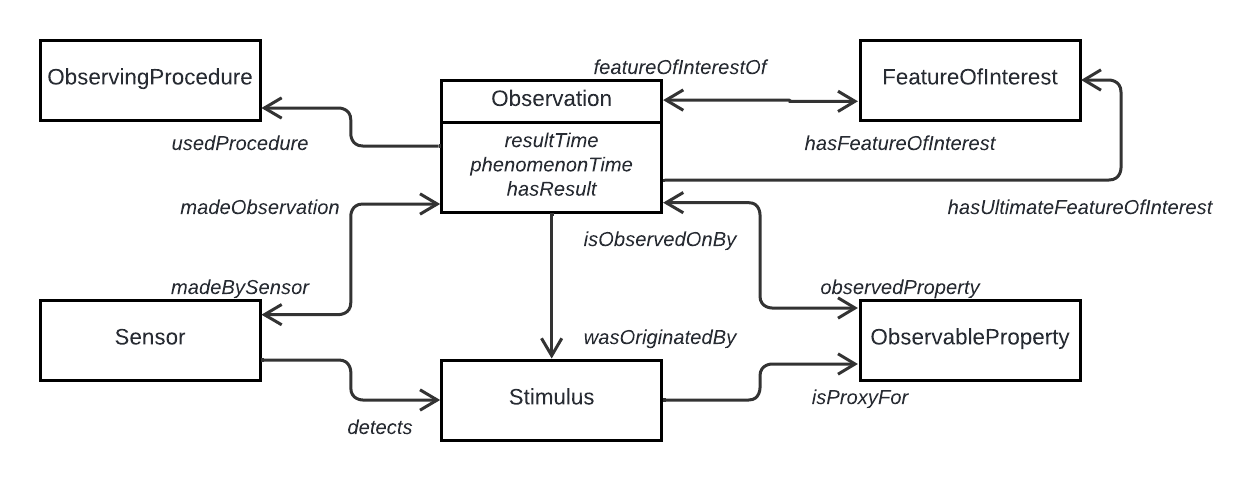
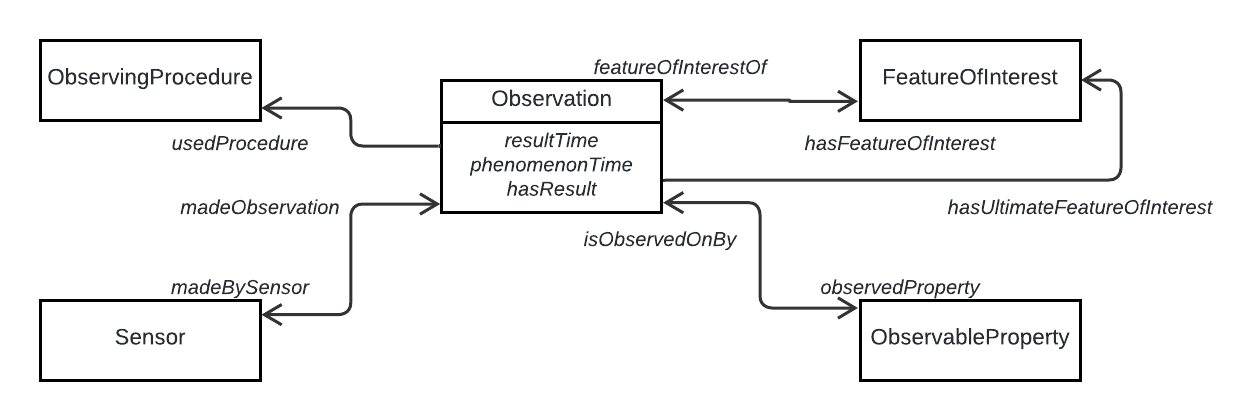
Simplify overview figures, fix includes

diff --git a/ssn/frag/Common.html b/ssn/frag/Common.html
@@ -39,7 +39,7 @@
             </figure>
         </div>
 
-        <section id="notation" class="note" data-include="frag/figure-notation.html"></section>
+        <div data-include="frag/figure-notation.html"></div>
 
     </section>
     <section id="Features-of-Interest-and-Properties-specification">
@@ -453,7 +453,7 @@
             </figure>
         </div>
 
-        <section id="notation" class="note" data-include="frag/figure-notation.html"></section>
+        <div data-include="frag/figure-notation.html"></div>
 
     </section>
 
@@ -675,7 +675,7 @@
             </figure>
         </div>
 
-        <section id="notation" class="note" data-include="frag/figure-notation.html"></section>
+        <div data-include="frag/figure-notation.html"></div>
 
     </section>
 
@@ -1544,7 +1544,7 @@
             </figure>
         </div>
 
-        <section id="notation" class="note" data-include="frag/figure-notation.html"></section>
+        <div data-include="frag/figure-notation.html"></div>
 
     </section>
     <section id="Systems-and-their-Deployment-specification">
@@ -2281,7 +2281,7 @@
                 </figcaption>
             </figure>
 
-            <section id="notation" class="note" data-include="frag/figure-notation.html"></section>
+            <div data-include="frag/figure-notation.html"></div>
 
         </div>
     </section>
